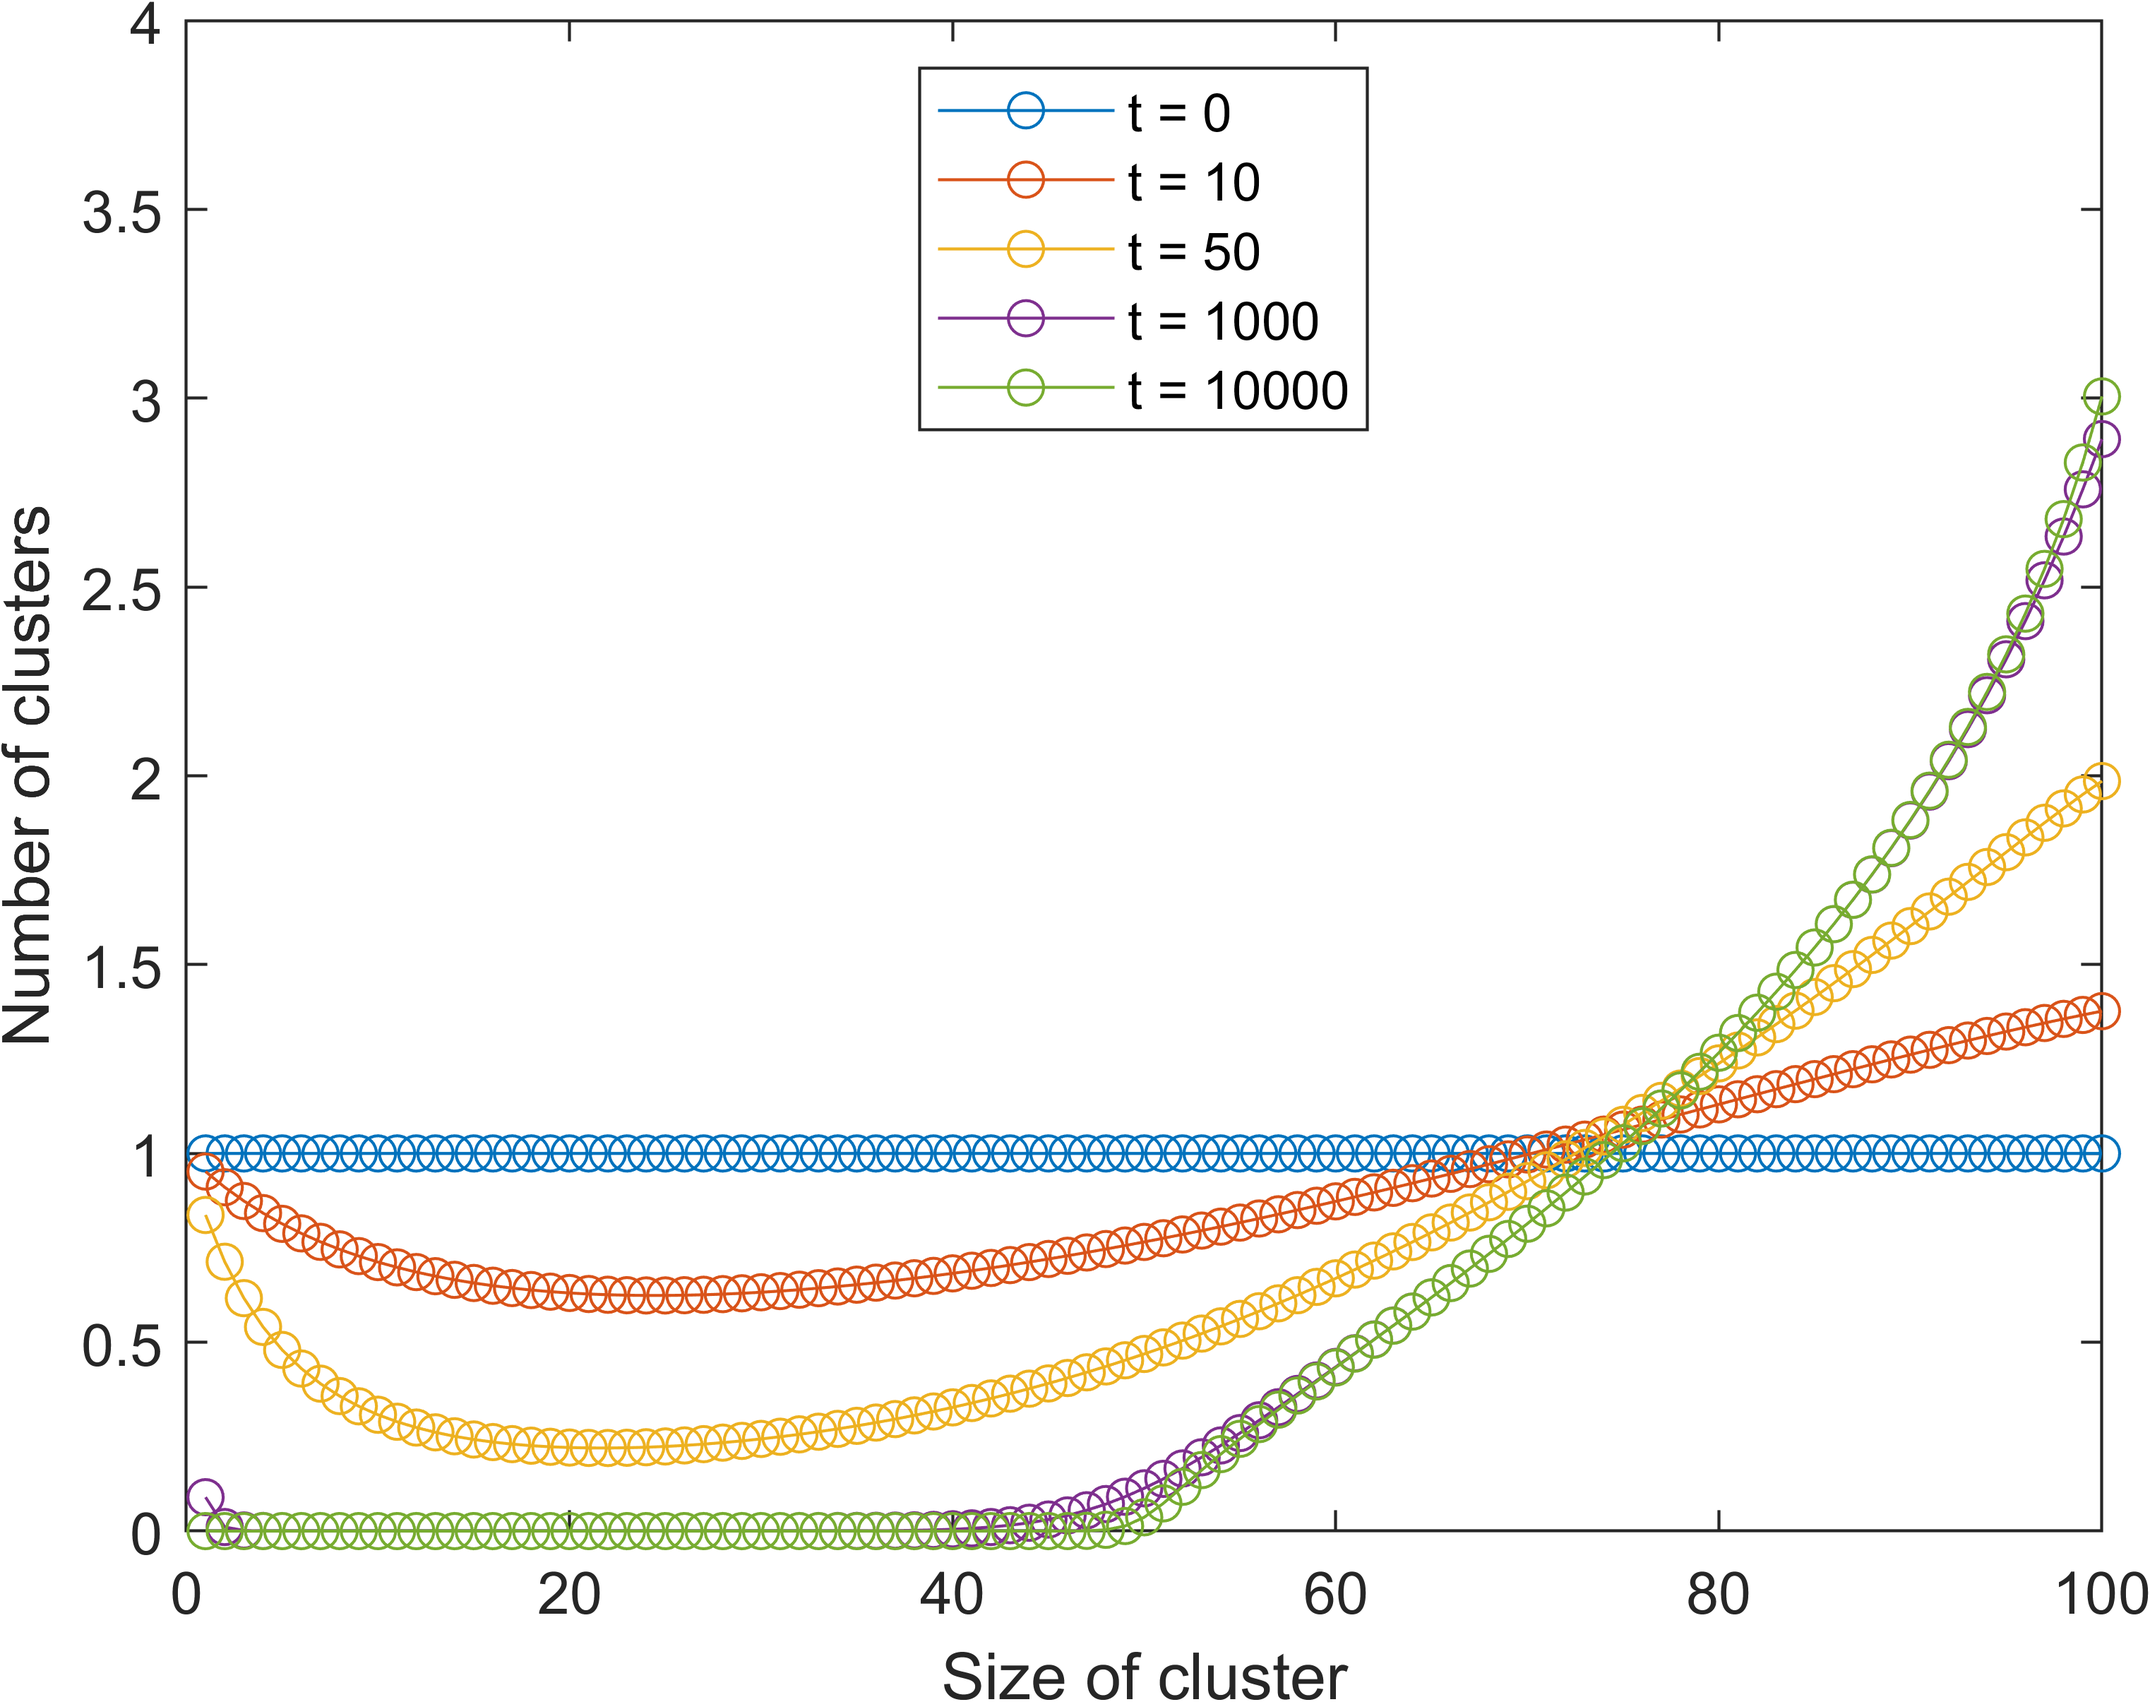
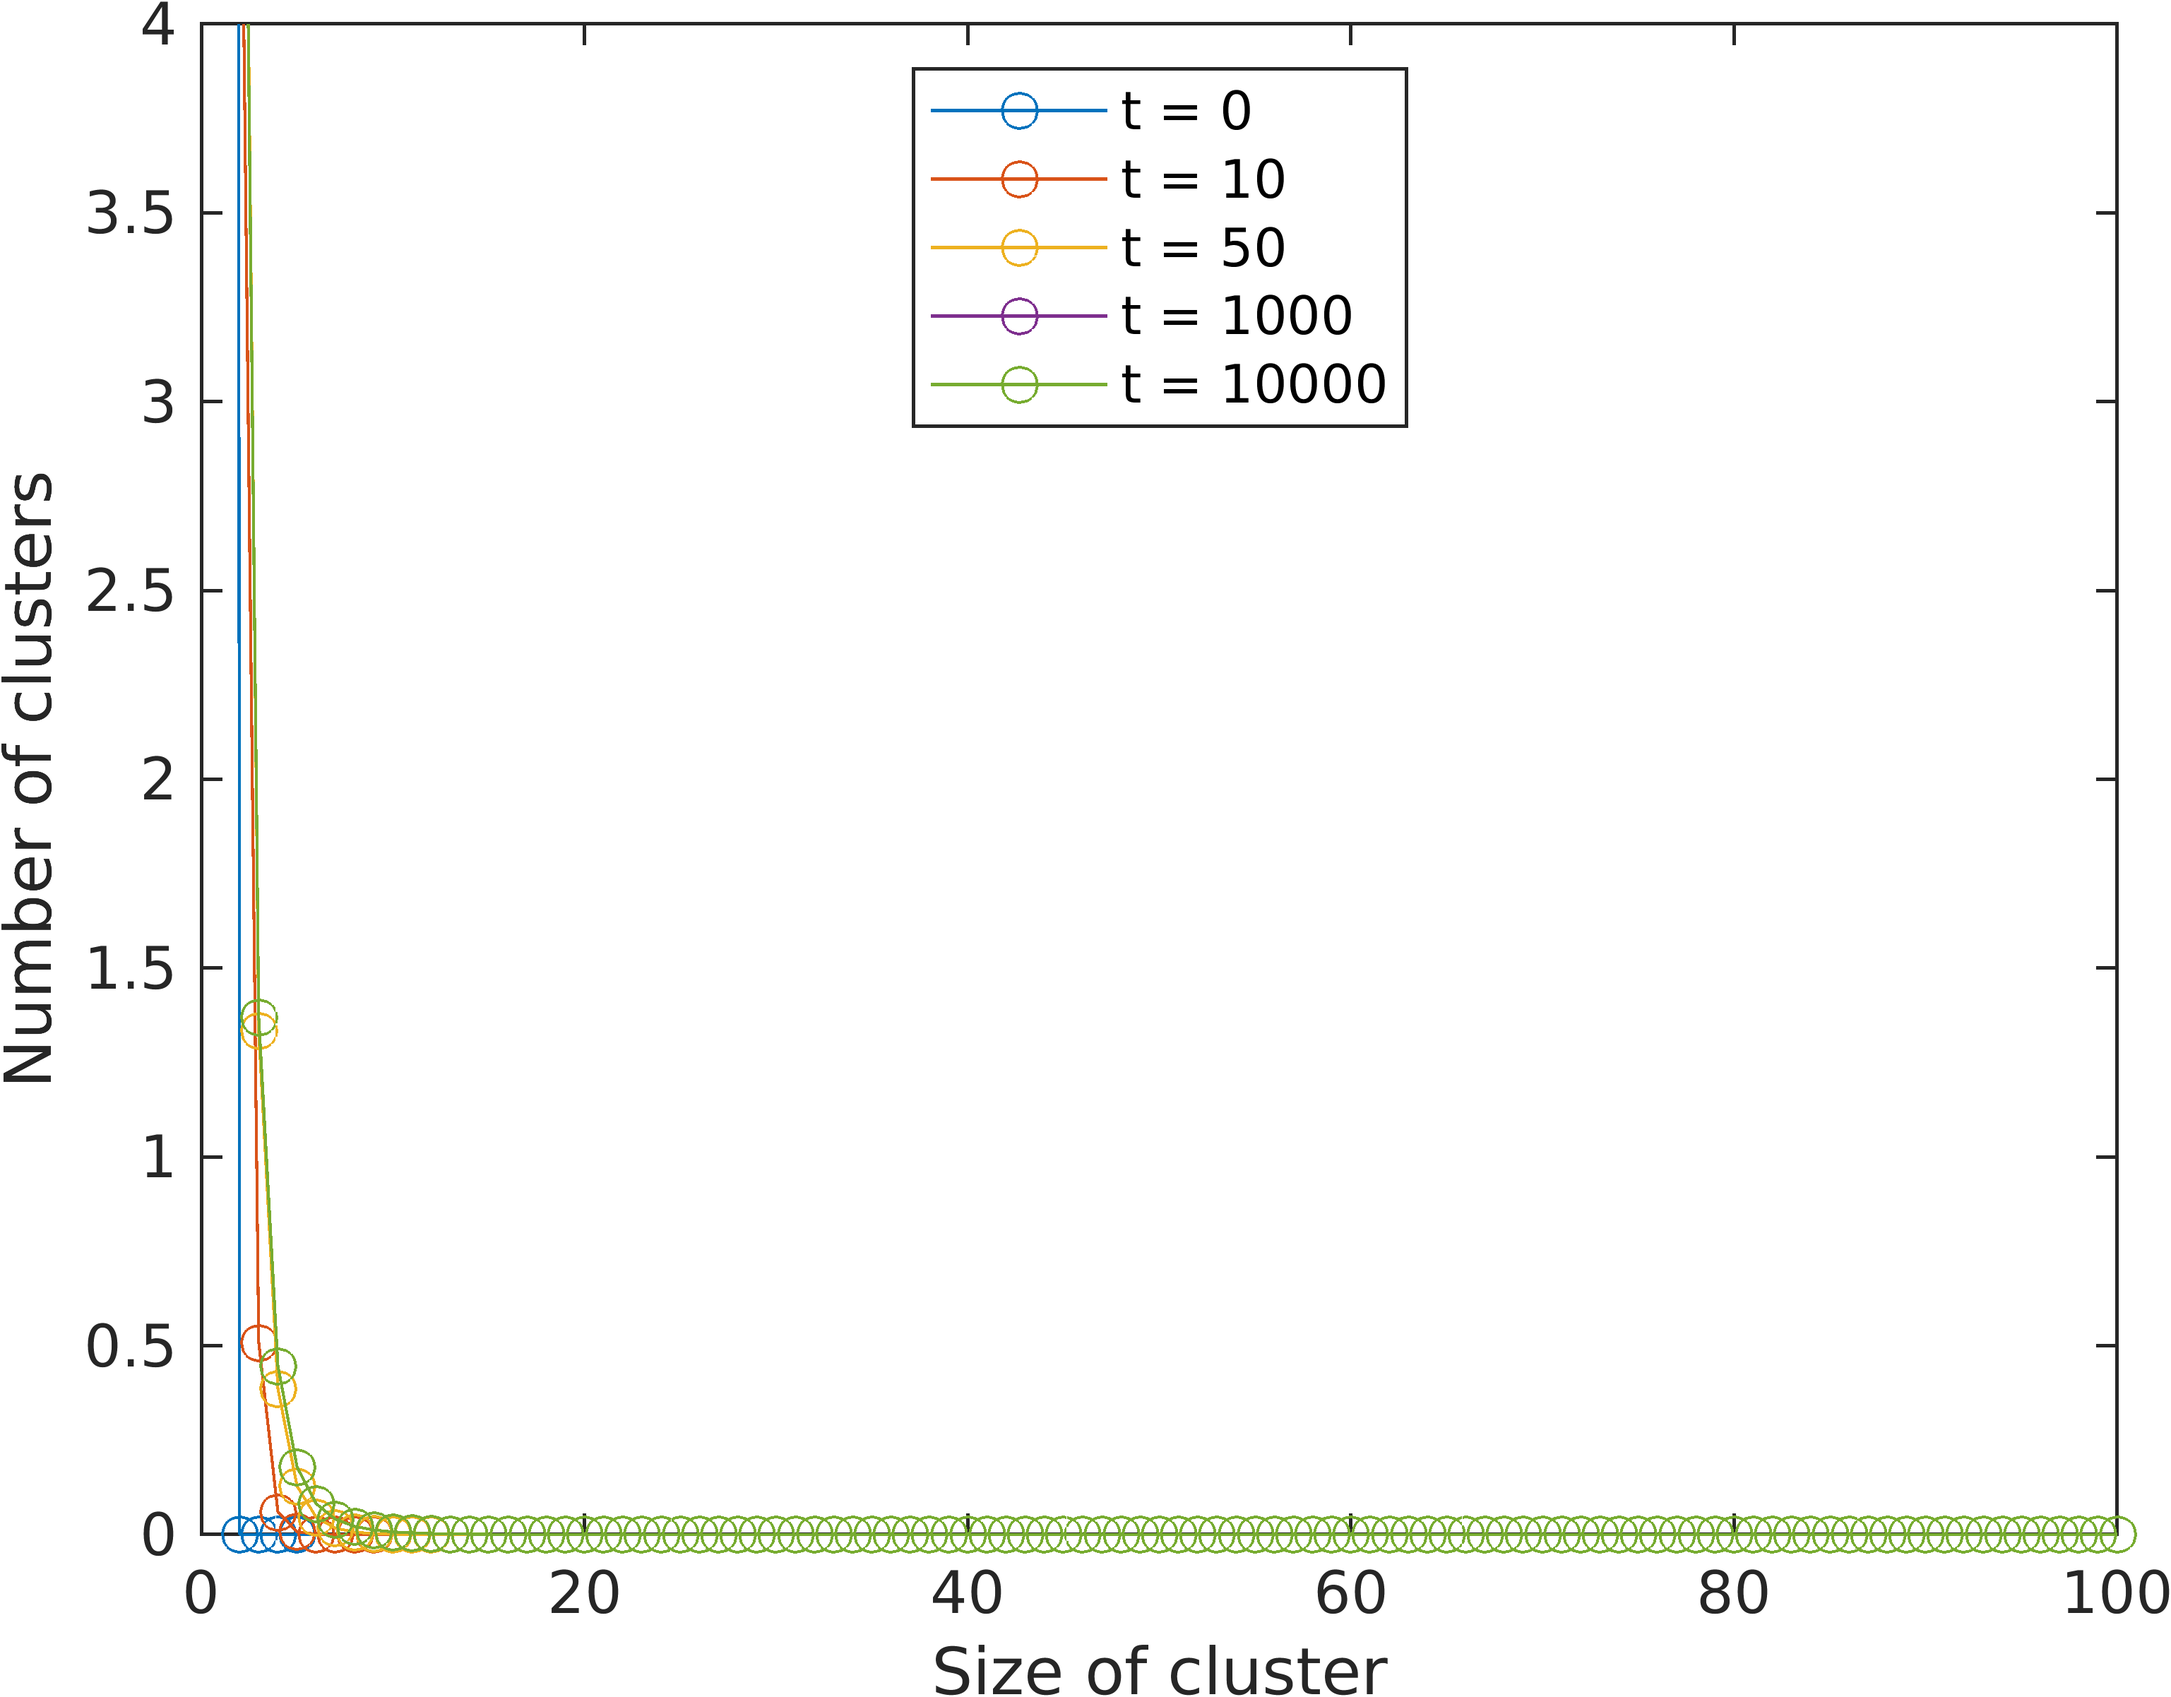
Parameter sweep simulated and plotted for b & q

Changed region(s): [[0.0, 0.0, 0.9984, 0.9988]]

diff --git a/homogeneous/parameter_sweep_plot.py b/homogeneous/parameter_sweep_plot.py
@@ -1,6 +1,7 @@
 import scipy.io
 import numpy as np
 import matplotlib.pyplot as plt
+import matplotlib.image as mpimg
 
 import glob
 import contextlib
@@ -73,4 +74,61 @@ plt.plot(t_array_3, n_array_3)
 plt.yscale('log')
 plt.legend(['b = 0.01', 'b = 0.001', 'b=0.0001'])
 plt.show()
+
+
+
+img1 = mpimg.imread('coag_and_shed/b_0.1_q_0.1.png')
+img2 = mpimg.imread('coag_and_shed/b_0.1_q_0.01.png')
+img3 = mpimg.imread('coag_and_shed/b_0.1_q_0.001.png')
+img4 = mpimg.imread('coag_and_shed/b_0.01_q_0.1.png')
+img5 = mpimg.imread('coag_and_shed/b_0.01_q_0.01.png')
+img6 = mpimg.imread('coag_and_shed/b_0.01_q_0.001.png')
+img7 = mpimg.imread('coag_and_shed/b_0.001_q_0.1.png')
+img8 = mpimg.imread('coag_and_shed/b_0.001_q_0.01.png')
+img9 = mpimg.imread('coag_and_shed/b_0.001_q_0.001.png')
+
+cols = ['q = {}'.format(col) for col in ['0.1', '0.01', '0.001']]
+rows = ['b = {}'.format(row) for row in ['0.1', '0.01', '0.001']]
+
+
+
+fig, axes = plt.subplots(nrows=3, ncols=3, figsize=(12, 8))
+
+for ax, col in zip(axes[0], cols):
+    ax.set_title(col)
+
+for ax, row in zip(axes[:,0], rows):
+    ax.set_ylabel(row, rotation=90, size='large')
+
+
+plt.setp(plt.gcf().get_axes(), xticks=[], yticks=[])
+plt.tight_layout()
+plt.subplot(3,3,1)
+plt.imshow(img1)
+
+plt.subplot(3,3,2)
+plt.imshow(img2)
+
+plt.subplot(3,3,3)
+plt.imshow(img3)
+
+plt.subplot(3,3,4)
+plt.imshow(img4)
+
+plt.subplot(3,3,5)
+plt.imshow(img5)
+
+plt.subplot(3,3,6)
+plt.imshow(img6)
+
+plt.subplot(3,3,7)
+plt.imshow(img7)
+
+plt.subplot(3,3,8)
+plt.imshow(img8)
+
+plt.subplot(3,3,9)
+plt.imshow(img9)
+plt.show()
+
 

diff --git a/homogeneous/population_plots.m b/homogeneous/population_plots.m
@@ -19,9 +19,9 @@ function [] = population_plots(n,t,tspan, derivative_norm)
     t_1000 = find(t > 1000, 1);
     disp('t_1000 is')
     disp(t_1000)
-    %t_10000 = find(t > 10000, 1);
-    %disp('t_10000 is')
-    %disp(t_10000)
+    t_10000 = find(t > 10000, 1);
+    disp('t_10000 is')
+    disp(t_10000)
     %1:N, n(t_1000,1:N),'-o', 1:N, n(t_10000,1:N),'-o',  1:N, 
 
     plot(1:N, n(1,1:N), '-o', 1:N, n(t_10,1:N),'-o', 1:N, n(t_50,1:N),'-o', ...
@@ -56,5 +56,16 @@ function [] = population_plots(n,t,tspan, derivative_norm)
 
     figure(4)
     plot(t, derivative_norm)
-    
+   
+
+    figure(5)
+    plot(1:N, n(t_1000,1:N),'-o', 1:N, n(t_10000,1:N),'-o', 1:N, n(end,1:N),'-o')
+    ylim([0 0.3])
+    xlabel('Size of cluster') 
+    ylabel('Number of clusters') 
+    legend('t = 1000', 't = 10000', 't = end', location = 'north')
+    f = gcf;
+    exportgraphics(f,'two_parameter_graph_high_res.png','Resolution',600);
+
+
 end

diff --git a/homogeneous/extended_smol.m b/homogeneous/extended_smol.m
@@ -44,12 +44,12 @@ shed_or_split = 1;
 %% IC 
 % (set to allow for metastatic invasion)
 n0 = zeros(1,2*N);
-n0(1:N) = 1;
-%n0(1) = 10000;
+%n0(1:N) = 1;
+n0(1) = 100;
 
 %% Running of solver
 tmin = 0;
-tmax = 10000;
+tmax = 100000;
 tspan = [tmin tmax];
 
 [t,n] = ode45(@ext_smol, tspan, n0);
@@ -80,8 +80,8 @@ global N
 % global m
 % global d
 % global q
-b = 0.001;
-q = 0;
+b = 0.01;
+q = 0.1;
 
 
 global include_flux
